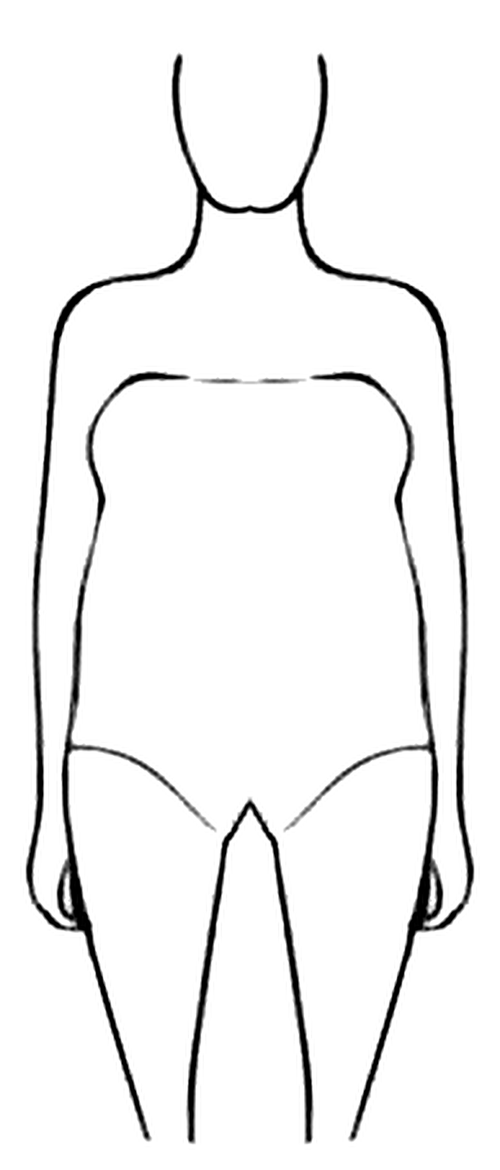
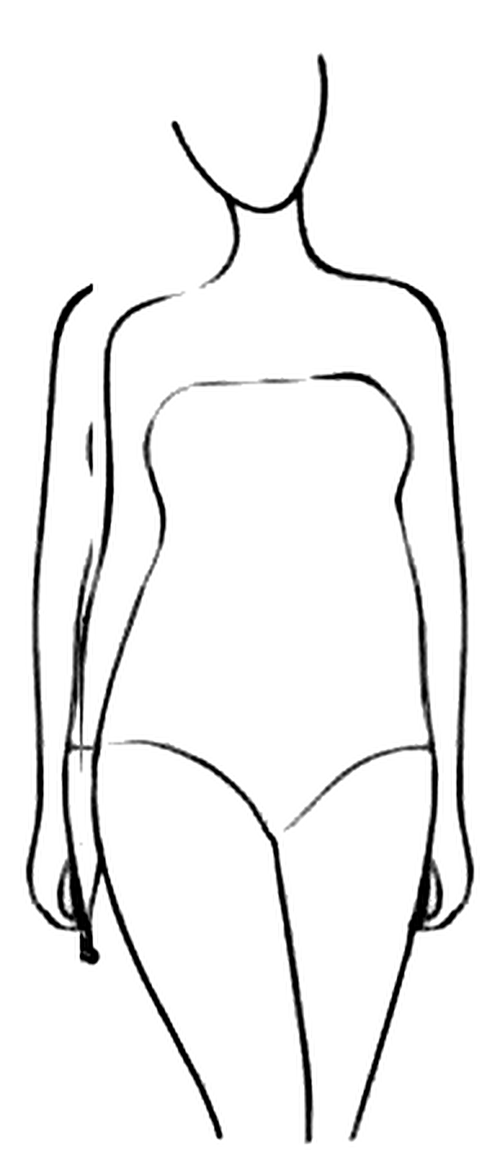
Le O retrouve sa pose, et les dessins se font discrets
Refléter la moitié droite du O effaçait la pose. Ces croquis ne sont
pas symétriques — le poids porte sur une jambe, les bras ne tombent pas
pareil — et la figure est devenue raide. La maison l'a vu tout de
suite, et elle avait raison.

Il manquait vingt et une colonnes au bord gauche de la planche, soit le
bord extérieur du bras. On ne reflète plus que cette tranche-là, prise
à la même distance de l'axe sur le côté droit, soudée par recouvrement
sur cinq colonnes. Le reste du O est celui de la planche, jambes et
appui compris.

Les dessins passent de neuf à cinq rem de large. La planche fait cent
soixante-huit pixels par figure : agrandi, le trait se délite ; à cette
taille, il tient. La lettre se resserre avec eux, sinon elle prenait le
dessus sur ce qu'elle accompagne.

diff --git a/components/accueil/Morphologies.tsx b/components/accueil/Morphologies.tsx
@@ -44,13 +44,16 @@ export default function Morphologies({ langue = "fr" }: { langue?: Langue }) {
             <li key={m.lettre}>
               <Link href={`/morphologies/${m.lettre.toLowerCase()}`} className="group block">
                 <span className="block h-px w-full bg-encre" />
+                {/* Petites à dessein : le dessin vient d'une planche
+                  * de cent soixante-huit pixels par figure. Agrandi, le
+                  * trait se délite ; à cette taille, il tient. */}
                 <Croquis
                   lettre={m.lettre}
-                  className="mx-auto mt-[clamp(1.25rem,2vw,2rem)] w-[min(100%,9rem)] text-plume transition-colors duration-700 group-hover:text-action"
+                  className="mx-auto mt-[clamp(1rem,1.6vw,1.5rem)] w-[min(62%,5.25rem)] text-plume transition-colors duration-700 group-hover:text-action"
                 />
                 {/* La lettre reste : c'est le repère que l'on cherche du
                   * regard dans le reste du site. */}
-                <span className="affiche mt-[clamp(1rem,1.6vw,1.5rem)] block text-[clamp(1.75rem,3vw,2.5rem)] leading-none text-encre transition-colors duration-500 group-hover:text-action">
+                <span className="affiche mt-[clamp(0.75rem,1.2vw,1.1rem)] block text-[clamp(1.375rem,2vw,1.75rem)] leading-none text-encre transition-colors duration-500 group-hover:text-action">
                   {m.lettre}
                 </span>
                 <span className="nom-carte mt-3 block text-[0.9375rem]">

diff --git a/outils/morphologies-planche.py b/outils/morphologies-planche.py
@@ -8,9 +8,15 @@ directement la transparence. On ne détoure pas, on convertit — aucun
 contour à deviner, aucune frange grise autour des lignes. Un plancher
 efface le bruit du JPEG, qui laissait un voile là où il n'y a rien.
 
-La première figure est coupée au bord gauche de la planche : son bras
-manque. Les silhouettes étant symétriques, on reconstruit la moitié
-absente en reflétant la moitié présente autour de l'axe du cou.
+La première figure est coupée au bord gauche de la planche : il lui
+manque vingt et une colonnes, soit le bord extérieur du bras. On ne
+reflète que cette tranche-là, prise à la même distance de l'axe sur le
+côté droit, et on la soude par recouvrement sur cinq colonnes.
+
+Refléter la moitié entière, comme au premier essai, effaçait la pose :
+ces croquis ne sont pas symétriques — le poids porte sur une jambe, les
+bras ne tombent pas pareil. La figure devenait raide, et la maison l'a
+vu tout de suite.
 
 La définition monte d'un facteur trois, et le trait est raffermi. On
 part de 168 pixels de large par figure, ce qui est juste pour un écran
@@ -26,13 +32,14 @@ import numpy as np
 from PIL import Image, ImageFilter
 
 SOURCE = Path.home() / "Downloads" / "Gemini_Generated_Image_3ew5sk3ew5sk3ew5.jpeg"
-SORTIE = Path("figures")
-SORTIE.mkdir(exist_ok=True)
+SORTIE = Path(__file__).resolve().parent.parent / "public" / "croquis"
+SORTIE.mkdir(parents=True, exist_ok=True)
 
 HAUT, BAS = 68, 522          # la bande des figures, lettres exclues
 NOIR, BLANC = 26, 165        # les bornes de la luminance du trait
 MARGE = 10                   # l'air autour de chaque figure
 ECHELLE = 3
+LARGE = 500                  # la carte n'en demande pas plus, même en double densité
 
 # L'axe de chaque figure et son bord droit, relevés sur la planche.
 FIGURES = [
@@ -65,11 +72,18 @@ def main() -> None:
 
     for nom, axe, bord, coupee in FIGURES:
         if coupee:
-            # La moitié droite, puis son reflet.
-            droite = bande[:, axe:bord]
-            gauche = droite[:, ::-1]
-            entiere = np.concatenate([gauche, droite], axis=1)
-            axe_local = droite.shape[1]
+            # Ce qui manque à gauche, pris à droite et retourné.
+            demi_droite = bord - axe
+            manque = demi_droite - axe
+            recouvre = 5
+            tranche = bande[:, axe + axe - recouvre : bord][:, ::-1]
+            entiere = np.zeros((bande.shape[0], manque + bord), dtype=float)
+            entiere[:, manque:] = bande[:, 0:bord]
+            # La soudure : on garde le trait le plus marqué des deux.
+            large = tranche.shape[1]
+            zone = entiere[:, 0:large]
+            entiere[:, 0:large] = np.maximum(zone, tranche)
+            axe_local = manque + axe
         else:
             g = max(0, axe - (bord - axe))
             entiere = bande[:, g:bord]
@@ -82,16 +96,18 @@ def main() -> None:
         cadre[:, depart:depart + entiere.shape[1]] = entiere
 
         a = (alpha(cadre) * 255).astype(np.uint8)
-        img = Image.fromarray(a, mode="L")
+        img = Image.fromarray(a)
         img = img.resize((img.width * ECHELLE, img.height * ECHELLE), Image.LANCZOS)
         img = img.filter(ImageFilter.UnsharpMask(radius=2.2, percent=95, threshold=2))
 
         # Le trait est noir ; c'est la transparence qui le dessine. Le site
         # le recolorera par masque, donc la couleur n'a pas d'importance.
+        if img.width > LARGE:
+            img = img.resize((LARGE, round(img.height * LARGE / img.width)), Image.LANCZOS)
         sortie = Image.new("RGBA", img.size, (0, 0, 0, 0))
         sortie.putalpha(img)
-        chemin = SORTIE / f"morphologie-{nom}.png"
-        sortie.save(chemin, optimize=True)
+        chemin = SORTIE / f"morphologie-{nom}.webp"
+        sortie.save(chemin, "WEBP", quality=74, method=6, exact=True)
         print(f"  {chemin.name:24} {sortie.size}  {chemin.stat().st_size // 1024} ko")
 
 
